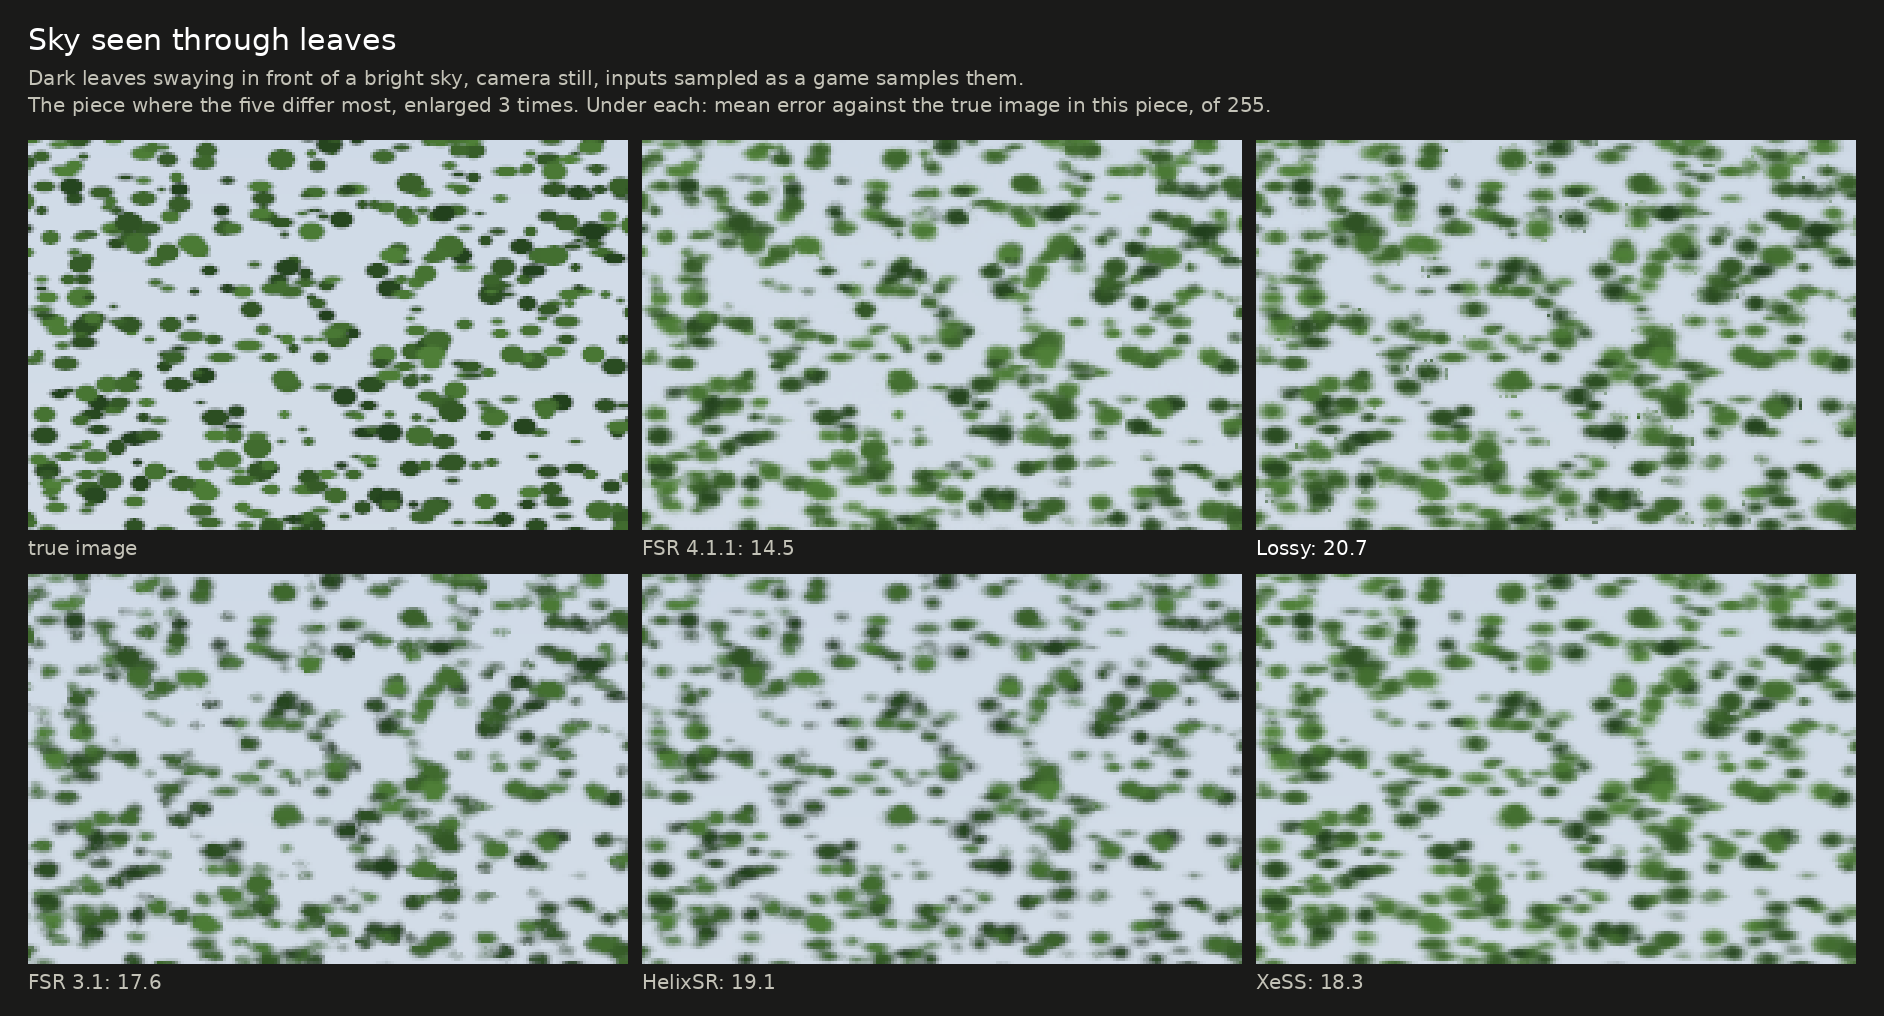
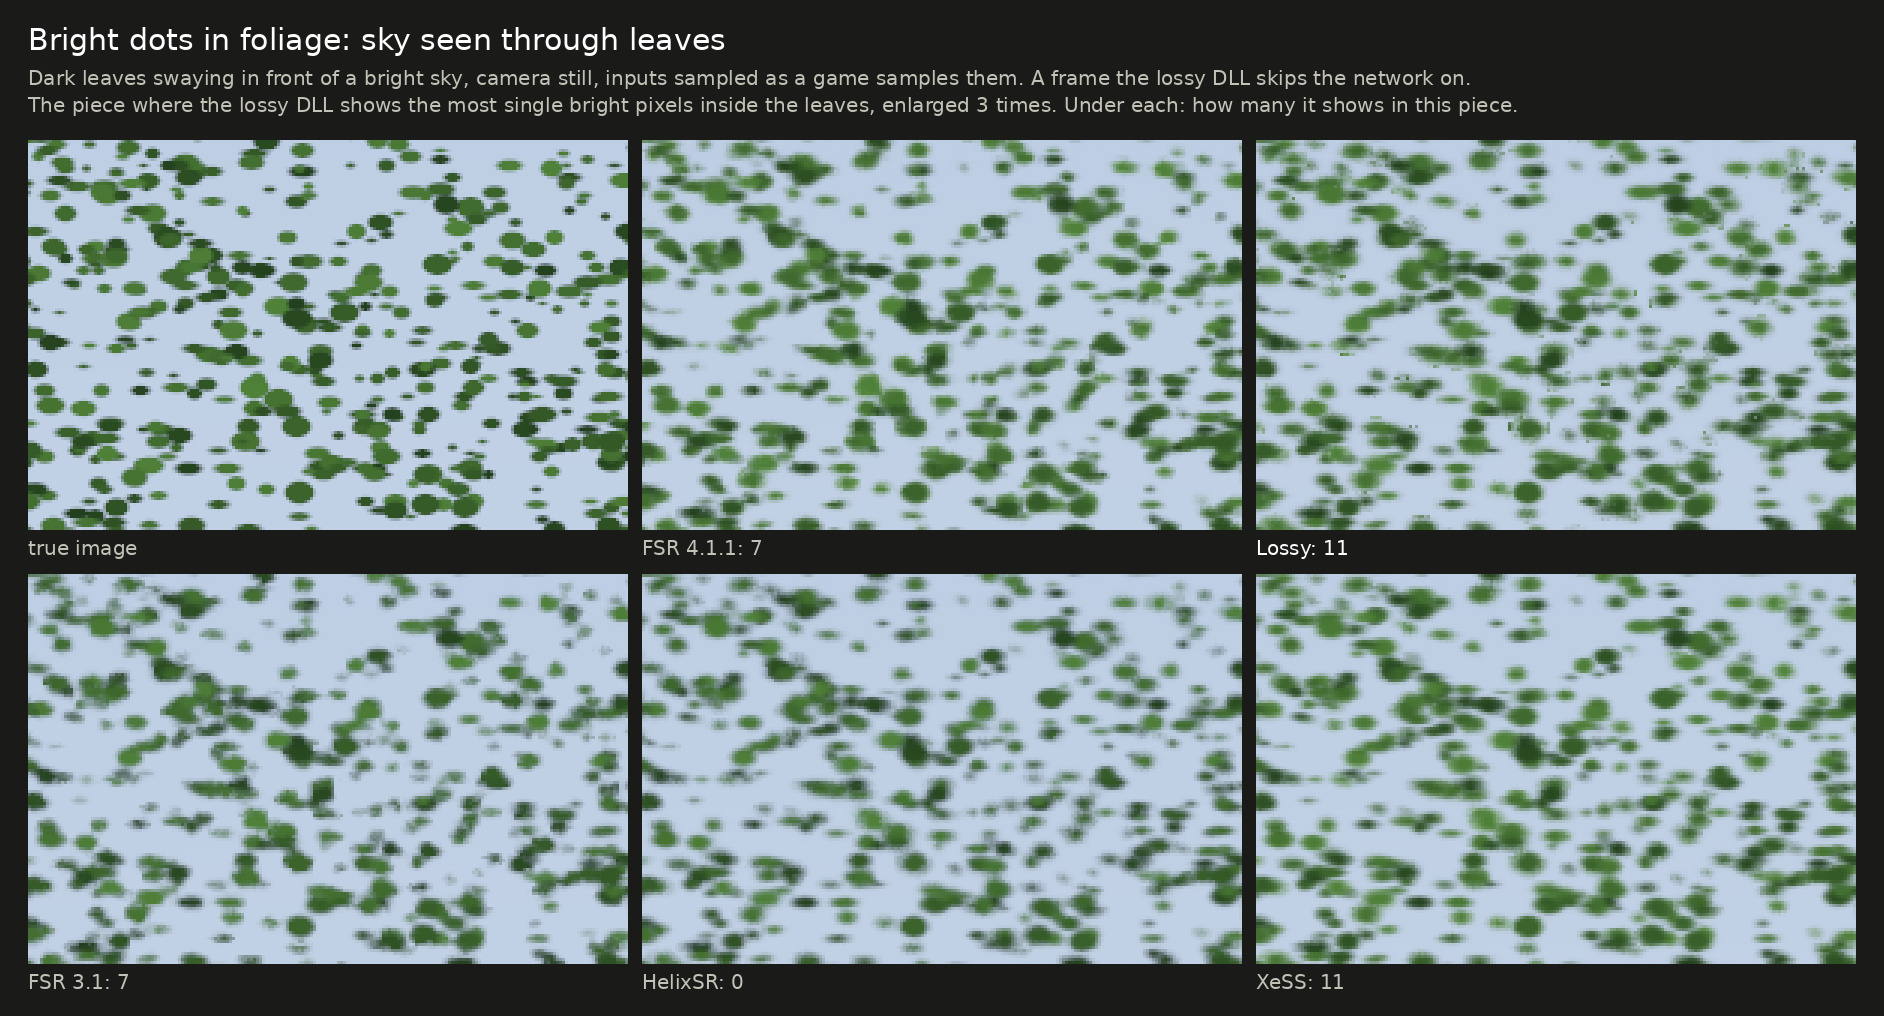
Comparison page: the foliage-dots picture shows the dots, with a count per upscaler

diff --git a/docs/img/make_upscaler_comparison.py b/docs/img/make_upscaler_comparison.py
@@ -153,4 +153,33 @@ crops('sparks', 'Tiny fast sparks drawn without motion vectors', f'Camera still.
 crops('foliage', 'Leaves swaying without motion vectors, camera still', f'Where the five differ most, enlarged 4 times. {E}', 150, 90, 4, (300, 300, 1900, 1850))
 crops('motion', 'Moving scene: fine stripes on a moving object', f'Camera panning. Where the five differ most, enlarged 4 times. {E}', 150, 90, 4, (1900, 250, 3300, 1500))
 crops('plate', 'A still bright object over ground that moves fast', f'The ground moves down by 100 pixels per frame; the white object (top) stays where it is, at the same depth.\nThe piece just below it where the five differ most, enlarged 2 times. {E}', 240, 160, 2, (2300, 800, 3100, 1000), frame=39)
-crops('dots', 'Sky seen through leaves', f'Dark leaves swaying in front of a bright sky, camera still, inputs sampled as a game samples them.\nThe piece where the five differ most, enlarged 3 times. {E}', 200, 130, 3, (250, 250, 1950, 1900), frame=39)
+# ---- bright dots in foliage: the piece of the hard-sampled foliage scene where the lossy DLL shows the most single bright pixels inside the leaves,
+# each panel with its count of them (as research/pruning/foliage_dots.py counts: more than 0.15 brighter than the median of the 3x3 surroundings, where
+# the true image is dark there)
+def dots_sheet(kw=200, kh=130, z=3, area=(250, 250, 1950, 1900)):
+    def med3(a_):
+        q = np.pad(a_, 1, mode='edge'); return np.median(np.stack([q[i:i + a_.shape[0], j:j + a_.shape[1]] for i in range(3) for j in range(3)]), 0)
+    x0, y0, x1, y1 = area
+    tru = srgb(np.load(f'{D}/dots_truth.npy').astype(np.float32))[y0:y1, x0:x1]
+    out = {k: srgb(np.fromfile(f'{D}/dots_{k}/output_3840x2160_f039.raw', dtype=np.float16).reshape(HH, WW, 4)[y0:y1, x0:x1, :3]) for k in KEYS}
+    dark = med3(tru.mean(2)) < 0.3
+    dots = {k: ((v.mean(2) - med3(v.mean(2)) > 0.15) & dark).astype(np.float32) for k, v in out.items()}
+    s_ = box(dots['lossy'], kh, kw); y, x = np.unravel_index(np.argmax(s_), s_.shape)
+    c = lambda a_: a_[y:y + kh, x:x + kw]
+    pic = lambda a_: (np.clip(np.repeat(np.repeat(c(a_), z, 0), z, 1), 0, 1) * 255 + 0.5).astype(np.uint8)
+    panels = [('true image', pic(tru))] + [(f'{n}: {int(c(dots[k]).sum())}', pic(out[k])) for n, k in zip(NAMES, KEYS)]
+    print('dots window', x + x0, y + y0, ' '.join(p_[0] for p_ in panels[1:]), '| whole area per thousand dark pixels:', ' '.join(f'{k} {dots[k].sum() / dark.sum() * 1000:.2f}' for k in KEYS))
+    title = 'Bright dots in foliage: sky seen through leaves'
+    sub = ('Dark leaves swaying in front of a bright sky, camera still, inputs sampled as a game samples them. A frame the lossy DLL skips the network on.\n'
+           'The piece where the lossy DLL shows the most single bright pixels inside the leaves, enlarged 3 times. Under each: how many it shows in this piece.')
+    pw, ph, gap, m = kw * z, kh * z, 14, 28
+    top = 112 + 28 * sub.count('\n')
+    im = Image.new('RGB', (2 * m + 3 * pw + 2 * gap, top + 2 * (ph + 44) + 8), BG); d = ImageDraw.Draw(im)
+    d.text((m, 22), title, font=font(30), fill=INK); d.multiline_text((m, 66), sub, font=font(20), fill=MUTED, spacing=8)
+    for i, (pl, a_) in enumerate(panels):
+        px, py = m + (i % 3) * (pw + gap), top + (i // 3) * (ph + 44)
+        im.paste(Image.fromarray(a_), (px, py)); d.text((px, py + ph + 6), pl, font=font(20), fill=INK if pl.startswith('Lossy') else MUTED)
+    im.save('cmp5-dots.png', optimize=True)
+
+
+dots_sheet()

diff --git a/docs/upscaler-comparison.md b/docs/upscaler-comparison.md
@@ -73,6 +73,7 @@ Against the true image; higher dB is better, lower error is better.
 
 The lossy DLL is the only one of the five that leaves a visible trace of the object on the ground here, faint as it is. The object
 and the ground are at the same depth in this scene; with distinct depths the lossy DLL is at FSR 4's level (1.46 against 1.58).
+
 - **In swaying foliage it is the least accurate of the five.** Its picture there is averaged over about one more frame
   than FSR 4's ([why](exact-vs-lossy.md#limits-of-the-lossy-builds)).
 - **Bright dots in foliage:** sky seen through leaves and shown as single bright pixels. These two rows use inputs sampled as a
@@ -80,7 +81,12 @@ and the ground are at the same depth in this scene; with distinct depths the los
   with the camera still, behind FSR 4 and XeSS, and well behind HelixSR; under a pan it is level with FSR 4. Before release
   `dll-2026-10-11.3` it scored 1.93 and 0.60.
 
-<img src="img/cmp5-dots.png" width="760" alt="Dark green leaves swaying in front of a pale sky, camera still, hard-sampled inputs, a piece enlarged three times, as true image and from the five upscalers. All five show the leaves softer than the true image: FSR 4.1.1 is the closest (error 14.5 of 255), then FSR 3.1 (17.6), XeSS (18.3), HelixSR (19.1) and the lossy DLL (20.7), whose picture also has a few single-pixel specks.">
+The same thing as a picture: the piece of that scene where the lossy DLL shows the most such pixels, with the count under each panel.
+
+<img src="img/cmp5-dots.png" width="760" alt="Bright dots in foliage: dark green leaves swaying in front of a pale sky, camera still, hard-sampled inputs, on a frame the lossy DLL skips the network on; the piece where the lossy DLL shows the most single bright pixels inside the leaves, enlarged three times, as true image and from the five upscalers, with the number of such pixels under each: FSR 4.1.1 7, the lossy DLL 11, FSR 3.1 7, HelixSR 0, XeSS 11. All five show the leaves softer than the true image; the specks are small and few in each.">
+
+In this one piece and frame the lossy DLL and XeSS show 11, FSR 4 and FSR 3.1 show 7 and HelixSR none; the table's figures are over the whole
+foliage area and eight frames. The other three pictures below are of the scenes in the first rows of the table.
 
 <img src="img/cmp5-still.png" width="760" alt="Still picture, a 150 by 90 pixel piece of the 4K output enlarged four times, where the five upscalers differ most: a water tank with a thin ladder and railing. True image, then FSR 4.1.1 (error 2.3 of 255), the lossy DLL (2.5), FSR 3.1 (2.8), HelixSR (1.8) and XeSS (2.2). The ladder's thin rungs are clearest in HelixSR and FSR 4.1.1 and softest in FSR 3.1.">
 
